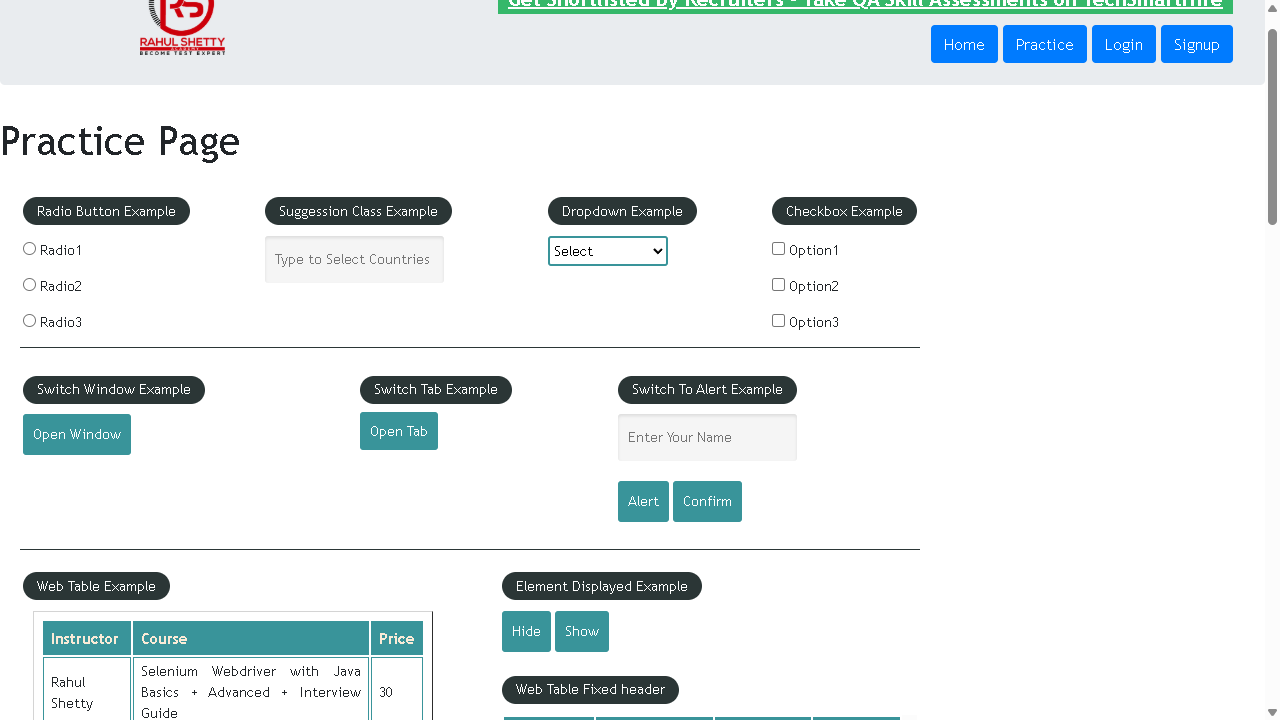
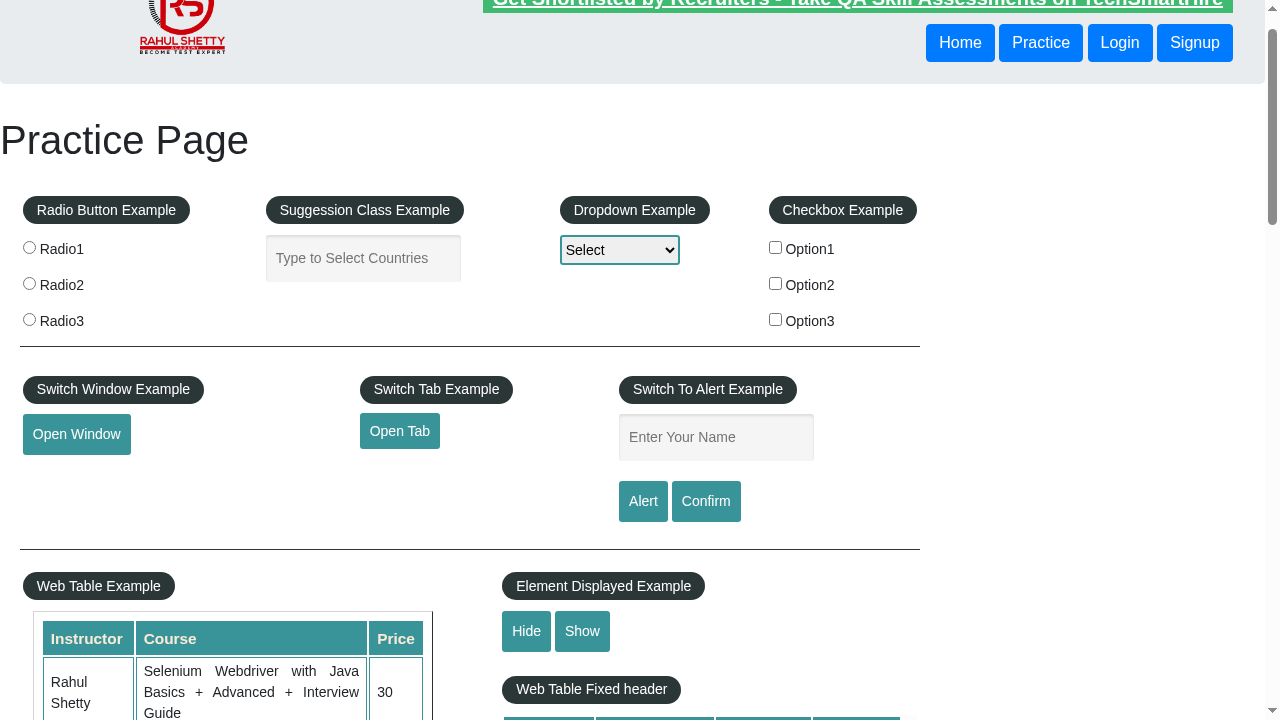
se ejecuta con Azure y se ve reporte

diff --git a/playwright.config.js b/playwright.config.js
@@ -14,9 +14,9 @@ const { defineConfig } = require('@playwright/test');
  */
 module.exports = defineConfig({ // Configuration for Playwright Test 
   testDir: './tests', // Specify the directory where the test files are located
-  timeout: 50 * 1000, // Maximum time one test can run for.
+  timeout: 60 * 1000, // Maximum time one test can run for.
   expect: {
-  timeout: 50 * 1000, // Maximum time expect() should wait for the condition to be met.
+  timeout: 60 * 1000, // Maximum time expect() should wait for the condition to be met.
   },
   /* Run tests in files in parallel */
   fullyParallel: true,
